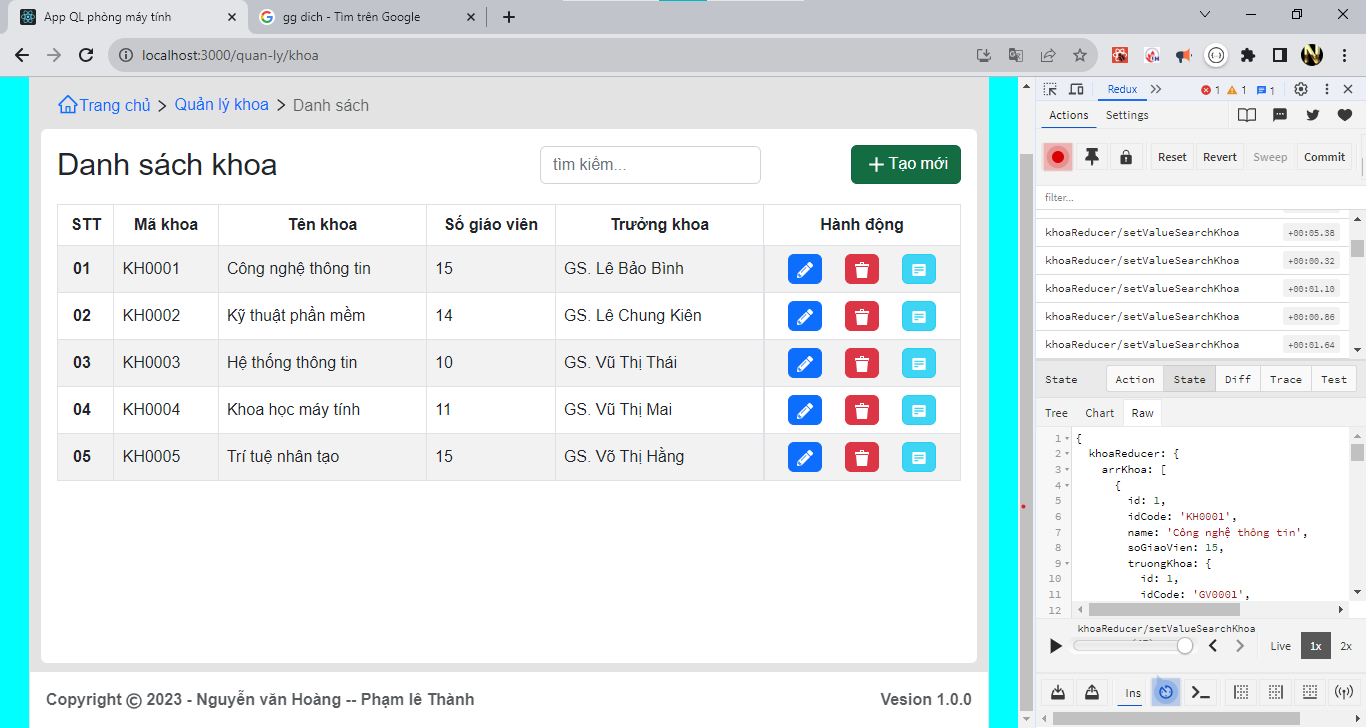
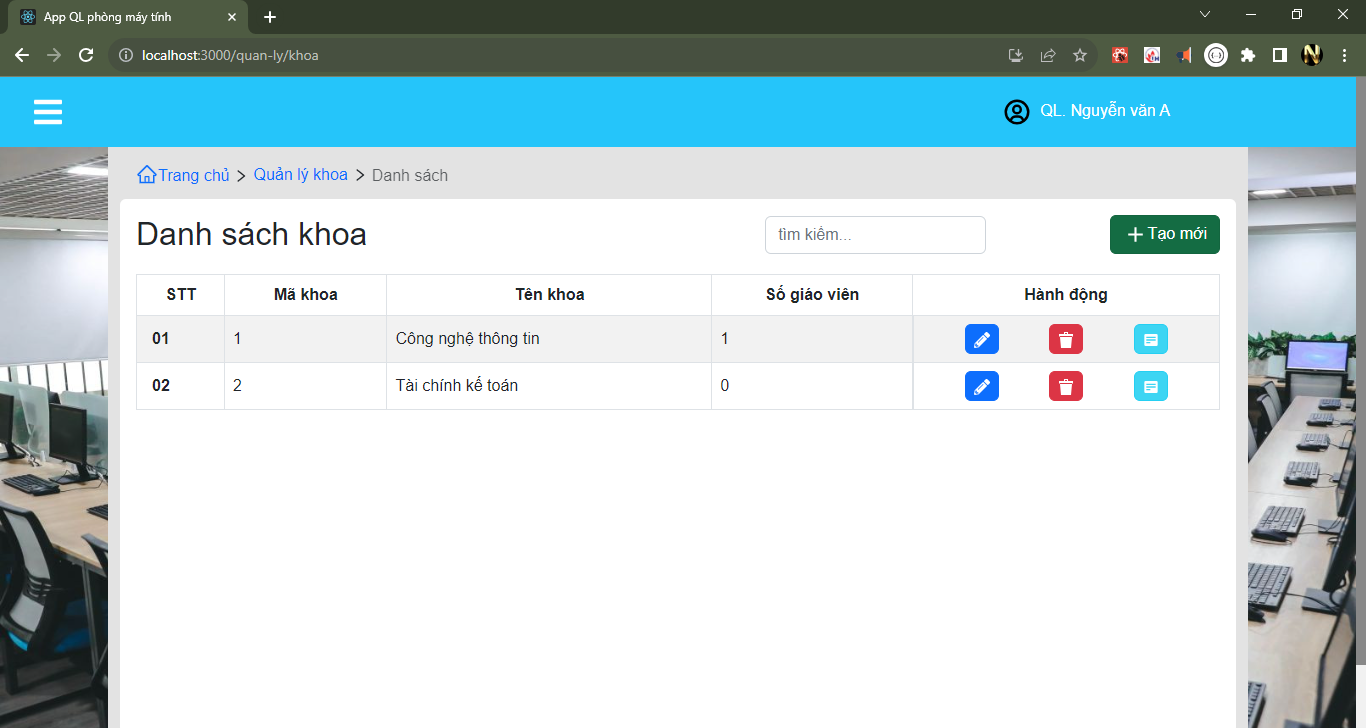
PageQLKhoa: update data api

diff --git a/src/redux/reducers/khoaReducer.jsx b/src/redux/reducers/khoaReducer.jsx
@@ -6,63 +6,69 @@ import Database from "../../util/database/Database";
 
 // function
 const dataSearch = (arrData, valSearch) => {
-    let search = valSearch.toLowerCase();
+  let search = valSearch.toLowerCase();
 
-    let arrUpdate = arrData.filter(item => {
-        return (
-        item.idCode.toLowerCase().includes(search) ||
-        item.name.toLowerCase().includes(search) ||
-        (item.soGiaoVien+"").toLowerCase().includes(search) ||
-        formatNameByHocVi(item.truongKhoa).toLowerCase().includes(search) 
-        )
-    })
+  let arrUpdate = arrData.filter((item) => {
+    return (
+      (item.maKhoa + "").toLowerCase().includes(search) ||
+      item.tenKhoa.toLowerCase().includes(search) ||
+      (item.soGiaoVien + "").toLowerCase().includes(search)
+    );
+  });
 
-    return [...arrUpdate];
-    
-}
+  return [...arrUpdate];
+};
 
 const initialState = {
-    arrKhoa:[],
-    arrKhoaSearch:[],
-    detailKhoa:{},
-    valueSearch:'',
-
-}
+  arrKhoa: [],
+  arrKhoaSearch: [],
+  detailKhoa: {},
+  valueSearch: "",
+};
 
 const khoaReducer = createSlice({
   name: "khoaReducer",
   initialState,
   reducers: {
-    setArrKhoaAction:(state,action) => {
-        state.arrKhoa = action.payload;
-        state.arrKhoaSearch = action.payload;
+    setArrKhoaAction: (state, action) => {
+      state.arrKhoa = action.payload;
+      state.arrKhoaSearch = action.payload;
     },
-    setValueSearchKhoa: (state, action) =>{
-        state.valueSearch = action.payload
+    setValueSearchKhoa: (state, action) => {
+      state.valueSearch = action.payload;
 
-        let{arrKhoa} = state;
-        state.arrKhoaSearch = dataSearch(arrKhoa, action.payload)
+      let { arrKhoa } = state;
+      state.arrKhoaSearch = dataSearch(arrKhoa, action.payload);
     },
-    
   },
 });
 // exp nay de sử dụng theo cách 2
-export const { 
-    setArrKhoaAction,
-    setValueSearchKhoa,
- } = khoaReducer.actions;
+export const { setArrKhoaAction, setValueSearchKhoa } = khoaReducer.actions;
 export default khoaReducer.reducer;
-
 
 // -------------- Call Api -------------------
 
 export const getAllKhoaApi = async (dispatch) => {
-    try {
-        // let result = await http.get('/Khoa...');
-        // dispatch(setArrKhoaAction(result.data.content));
-        dispatch(setArrKhoaAction(Database.dataKhoa));
-    } catch (error) {
-        console.log("🚀 ~ file: khoaReducer.jsx:37 ~ getAllKhoaApi ~ error:", error)
-        
-    }
-}
+  try {
+    let result = await http.get("/DSKhoa");
+    let resultGV = await http.get("/DSGiaoVien");
+
+    let arrData = result.data.map((item) => {
+      let soGiaoVien = 0;
+      resultGV.data.forEach((e) => {
+        if (e.khoa.maKhoa == item.maKhoa) {
+          soGiaoVien++;
+        }
+      });
+      return { ...item, soGiaoVien };
+    });
+
+    dispatch(setArrKhoaAction(arrData));
+    // dispatch(setArrKhoaAction(Database.dataKhoa));
+  } catch (error) {
+    console.log(
+      "🚀 ~ file: khoaReducer.jsx:37 ~ getAllKhoaApi ~ error:",
+      error
+    );
+  }
+};

diff --git a/src/pages/PageQuanLy/PageQLKhoa.jsx b/src/pages/PageQuanLy/PageQLKhoa.jsx
@@ -9,21 +9,26 @@ import Footer from "../../components/common/Footer/Footer";
 import NavTab from "../../components/common/NavTab/NavTab";
 import { NavLink } from "react-router-dom";
 import { useDispatch, useSelector } from "react-redux";
-import { getAllKhoaApi, setValueSearchKhoa } from "../../redux/reducers/khoaReducer";
+import {
+  getAllKhoaApi,
+  setValueSearchKhoa,
+} from "../../redux/reducers/khoaReducer";
 import { formatNameByHocVi } from "../../util/config";
 
 export default function PageQLKhoa() {
   const dispatch = useDispatch();
 
-  let { arrKhoaSearch } = useSelector((state) => state.khoaReducer);
-  
+  let { arrKhoa, arrKhoaSearch } = useSelector((state) => state.khoaReducer);
+
   useEffect(() => {
-    dispatch(getAllKhoaApi);
+    if (arrKhoa.length === 0) {
+      dispatch(getAllKhoaApi);
+    }
   }, []);
 
   //handle
   const handleChangeSearch = (e) => {
-    dispatch(setValueSearchKhoa(e.target.value))
+    dispatch(setValueSearchKhoa(e.target.value));
   };
   //render
   const renderDataNhanVien = () => {
@@ -33,15 +38,9 @@ export default function PageQLKhoa() {
           <td scope="row" style={{ fontWeight: 600, padding: "0 15px" }}>
             {index < 9 ? `0${index + 1}` : index + 1}
           </td>
-          <td>{item?.idCode}</td>
-          <td>{item?.name}</td>
+          <td>{item?.maKhoa}</td>
+          <td>{item?.tenKhoa}</td>
           <td>{item?.soGiaoVien}</td>
-          <td>{formatNameByHocVi(item?.truongKhoa)}</td>
-
-          {/* <td>{formatStringDate(ngaySD)}</td>
-          <td>{item?.tuoiTho}</td>
-          <td>{formatStringDate(ngayKT)}</td>
-          {renderTrangThai()} */}
 
           <td style={{ display: "flex", justifyContent: "space-evenly" }}>
             <NavLink
@@ -153,7 +152,6 @@ export default function PageQLKhoa() {
                     <th style={{ minWidth: "90px" }}>Mã khoa</th>
                     <th style={{ minWidth: "180px" }}>Tên khoa</th>
                     <th style={{ minWidth: "90px" }}>Số giáo viên</th>
-                    <th style={{ minWidth: "180px" }}>Trưởng khoa</th>
                     <th style={{ minWidth: "170px" }}>Hành động</th>
                   </tr>
                 </thead>
